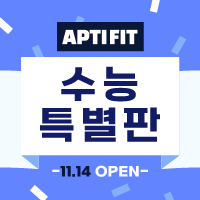
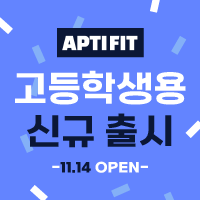
FEAT: 모바일 반응형 일부 수정 및 배너 수정

diff --git a/src/app/(home)/_sections/ServiceSection/ServiceSection.tsx b/src/app/(home)/_sections/ServiceSection/ServiceSection.tsx
@@ -17,15 +17,6 @@ const ServiceSection = ({ type }) => {
           <ServiceButton
             href="https://www.aptifit.co.kr/"
             label="TRY NOW"
-            title="앱티핏 2025 수능 특별판"
-          >
-            <p className={s.serviceButtonText}>
-              대학 진학을 앞둔 고3 및 수능응시생
-            </p>
-          </ServiceButton>
-          <ServiceButton
-            href="https://www.aptifit.co.kr/"
-            label="TRY NOW"
             title="앱티핏 대학생·성인용 "
           >
             <p className={s.serviceButtonText}>
@@ -33,14 +24,15 @@ const ServiceSection = ({ type }) => {
               대학생
             </p>
           </ServiceButton>
+          <ServiceButton
+            href="https://www.aptifit.co.kr/"
+            label="TRY NOW"
+            title="앱티핏 고등학생용"
+          >
+            <p className={s.serviceButtonText}>대학 진학을 앞둔 고등학생</p>
+          </ServiceButton>
         </div>
         <div className={s.serviceButtonContainer}>
-          <ServiceButton
-            isComingSoon
-            comingSoonDate="2025년 1월"
-            label="1월 출시예정"
-            title="앱티핏 고등학생용"
-          ></ServiceButton>
           <ServiceButton
             isComingSoon
             comingSoonDate="2025년 1월"

diff --git a/src/app/NotFound.module.css b/src/app/NotFound.module.css
@@ -22,7 +22,7 @@
   color: var(--primary);
 }
 
-@media (max-width: 425px) {
+@media (max-width: 430px) {
   .textContainer p {
     font-size: var(--text-20);
     margin-bottom: var(--spacing-16);

diff --git a/src/app/(home)/_containers/Feature/Feature.module.css b/src/app/(home)/_containers/Feature/Feature.module.css
@@ -33,7 +33,7 @@
   margin-bottom: var(--spacing-16);
 }
 
-@media (max-width: 425px) {
+@media (max-width: 430px) {
   .Feature {
     display: flex;
     flex-direction: column;

diff --git a/src/app/(home)/_containers/IndividualPersona/IndividualPersona.module.css b/src/app/(home)/_containers/IndividualPersona/IndividualPersona.module.css
@@ -41,7 +41,7 @@
   margin-bottom: var(--spacing-64);
 }
 
-@media (max-width: 425px) {
+@media (max-width: 430px) {
   .subtitle {
     font-size: 16px;
     line-height: 150%;

diff --git a/src/app/(home)/_components/Controller/Controller.module.css b/src/app/(home)/_components/Controller/Controller.module.css
@@ -55,7 +55,7 @@
   visibility: visible;
 }
 
-@media (max-width: 425px) {
+@media (max-width: 430px) {
   .icon {
     width: 16px;
     height: 16px;

diff --git a/src/components/Banner/Banner.module.css b/src/components/Banner/Banner.module.css
@@ -96,7 +96,7 @@
   display: none;
 }
 
-@media (max-width: 425px) {
+@media (max-width: 430px) {
   .Banner {
     display: none;
   }
